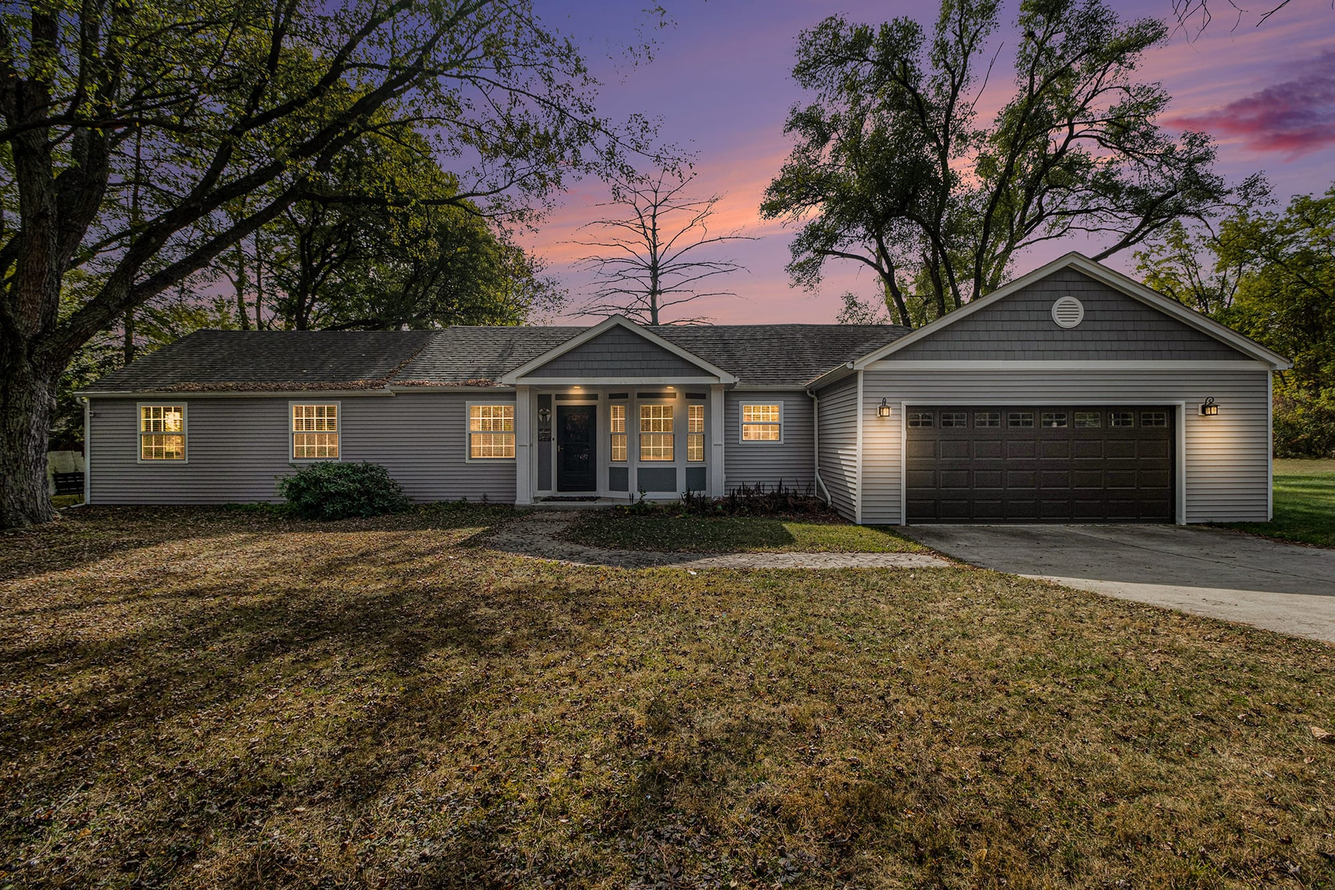
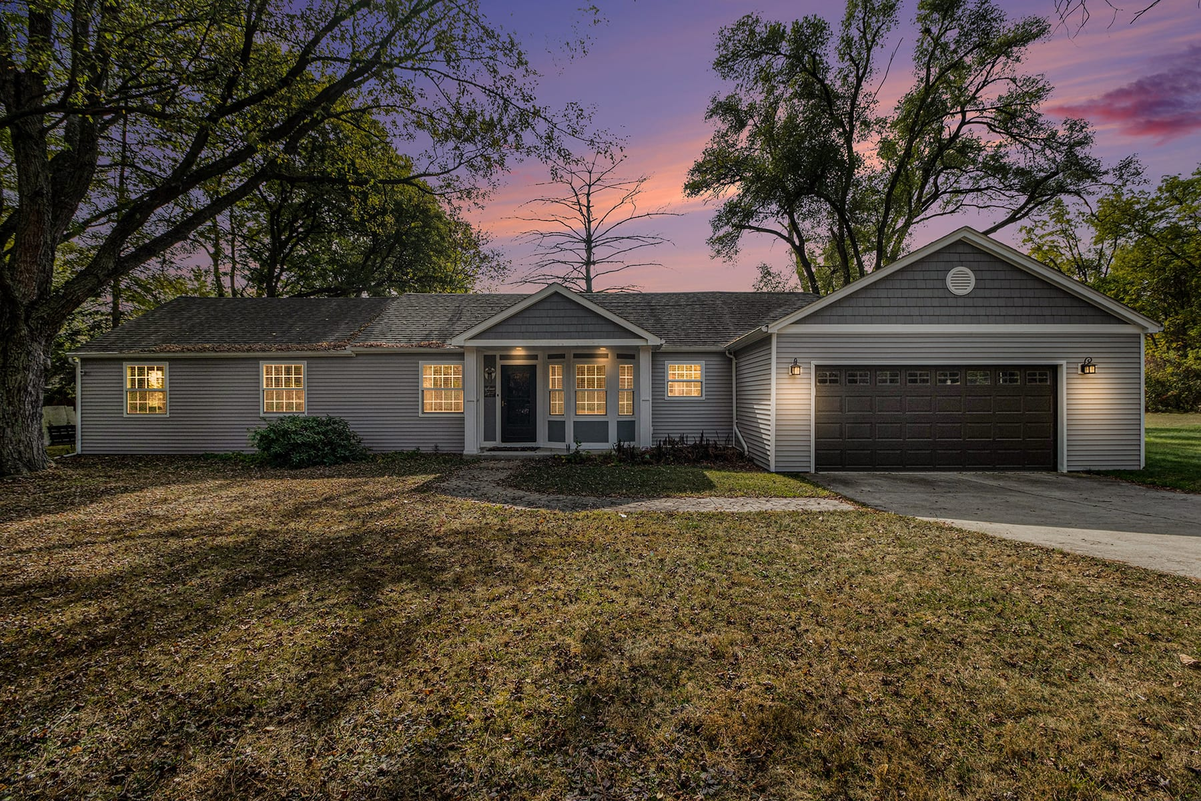
Integrate real photography from brand kit
Nick's portrait and the full team photo on the Team page, photo-backed
marketing cards on the Sell page, a recent-launches strip on Home, and
a sharper twilight ranch photo. All sourced from the team's Drive
folder and optimized for web.

Claude-Session: https://claude.ai/code/session_01FDaTn274ARRFNyDTXxudMt

diff --git a/src/app/page.tsx b/src/app/page.tsx
@@ -114,6 +114,42 @@ export default function HomePage() {
         </div>
       </section>
 
+      {/* Recent work */}
+      <section className="mx-auto max-w-6xl px-5 pt-20 md:pt-28">
+        <p className="eyebrow">Recent launches</p>
+        <h2 className="display mt-4 text-3xl md:text-5xl">
+          Every home, launched <em>properly.</em>
+        </h2>
+        <p className="mt-4 max-w-xl leading-relaxed text-slate">
+          Twilight photography, cinematic video, and a one-week launch — from
+          landmark estates to three-bed ranches.
+        </p>
+        <div className="mt-12 grid gap-5 md:grid-cols-3">
+          {[
+            {
+              src: "/images/work/craftsman-twilight.jpg",
+              alt: "New-build craftsman home at twilight in the snow",
+            },
+            {
+              src: "/images/work/modern-newbuild.jpg",
+              alt: "Modern white-brick new construction with black trim",
+            },
+            {
+              src: "/images/work/colonial-drive.jpg",
+              alt: "Classic colonial with a circular drive",
+            },
+          ].map((img) => (
+            <ArchImage
+              key={img.src}
+              src={img.src}
+              alt={img.alt}
+              className="aspect-[4/5] w-full"
+              sizes="(min-width: 768px) 24rem, 90vw"
+            />
+          ))}
+        </div>
+      </section>
+
       {/* Communities */}
       <section className="mx-auto max-w-6xl px-5 py-20 md:py-28">
         <div className="flex flex-wrap items-end justify-between gap-6">

diff --git a/src/app/team/page.tsx b/src/app/team/page.tsx
@@ -35,9 +35,9 @@ export default function TeamPage() {
           </p>
         </div>
         <div className="mx-auto max-w-6xl px-5 pb-16 md:pb-24">
-          <div className="arch relative aspect-[16/8] w-full">
+          <div className="arch relative aspect-[16/10] w-full md:aspect-[16/8]">
             <Image
-              src="/images/team.jpg"
+              src="/images/team-full.jpg"
               alt="The Zeoli Realty team"
               fill
               sizes="(min-width: 1152px) 72rem, 95vw"
@@ -54,6 +54,15 @@ export default function TeamPage() {
       <section className="mx-auto max-w-6xl px-5 py-20 md:py-28">
         <div className="grid gap-12 md:grid-cols-[1fr_1.4fr]">
           <div>
+            <div className="arch relative mb-8 aspect-[5/6] w-48 md:w-56">
+              <Image
+                src="/images/nick.jpg"
+                alt="Nick Zeoli, founder of Zeoli Realty"
+                fill
+                sizes="14rem"
+                className="object-cover object-top"
+              />
+            </div>
             <p className="eyebrow">Founder</p>
             <h2 className="display mt-4 text-4xl md:text-5xl">
               {founder.name}

diff --git a/src/app/sell/page.tsx b/src/app/sell/page.tsx
@@ -138,12 +138,23 @@ export default function SellPage() {
           {marketing.items.map((m) => (
             <div
               key={m.title}
-              className="rounded-[10px] border border-linen p-6"
+              className="overflow-hidden rounded-[10px] border border-linen"
             >
-              <h3 className="font-semibold text-ink">{m.title}</h3>
-              <p className="mt-2.5 text-sm leading-relaxed text-slate">
-                {m.description}
-              </p>
+              <div className="relative aspect-[4/3]">
+                <Image
+                  src={m.image}
+                  alt={m.alt}
+                  fill
+                  sizes="(min-width: 768px) 18rem, 90vw"
+                  className="object-cover"
+                />
+              </div>
+              <div className="p-6">
+                <h3 className="font-semibold text-ink">{m.title}</h3>
+                <p className="mt-2.5 text-sm leading-relaxed text-slate">
+                  {m.description}
+                </p>
+              </div>
             </div>
           ))}
         </div>

diff --git a/src/content/sell.ts b/src/content/sell.ts
@@ -78,18 +78,26 @@ export const marketing = {
     {
       title: "Professional Photography",
       description: "Magazine-grade shots that make buyers stop scrolling.",
+      image: "/images/work/craftsman-twilight.jpg",
+      alt: "Twilight photograph of a new-build craftsman home in the snow",
     },
     {
       title: "Cinematic Social Video",
       description: "Reels & walkthroughs built for the feed.",
+      image: "/images/work/estate-twilight.jpg",
+      alt: "Twilight exterior of a modern stone estate",
     },
     {
       title: "3D & Matterport Tours",
       description: "Buyers tour anytime — pre-qualifying real interest.",
+      image: "/images/work/kitchen-marble.jpg",
+      alt: "Marble waterfall-island kitchen in a Zeoli Realty listing",
     },
     {
       title: "Virtual Staging",
       description: "Empty or dated rooms shown at full potential.",
+      image: "/images/work/staged-living.jpg",
+      alt: "Staged living room with warm wood floors",
     },
   ],
   callout:
